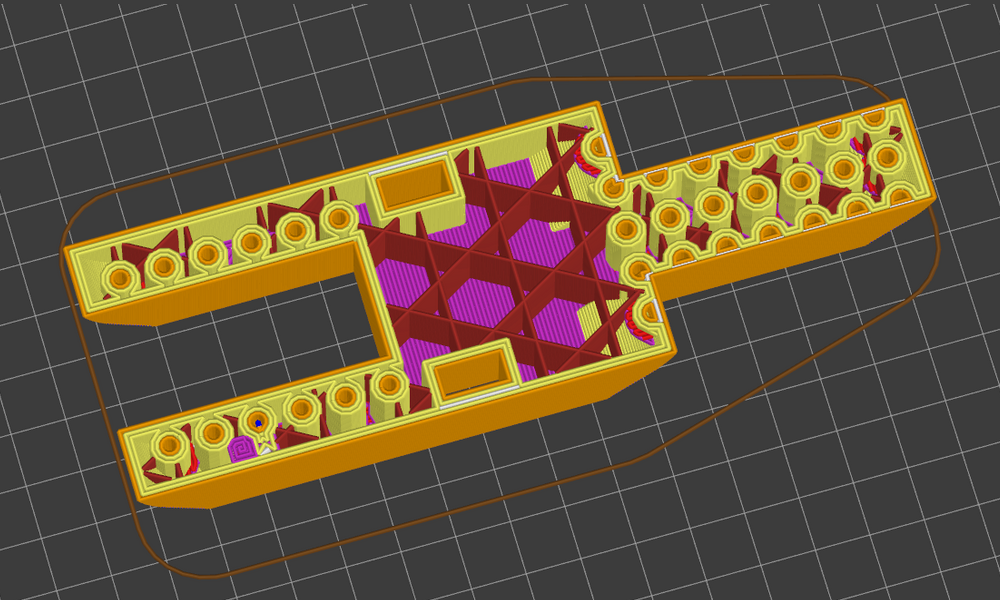
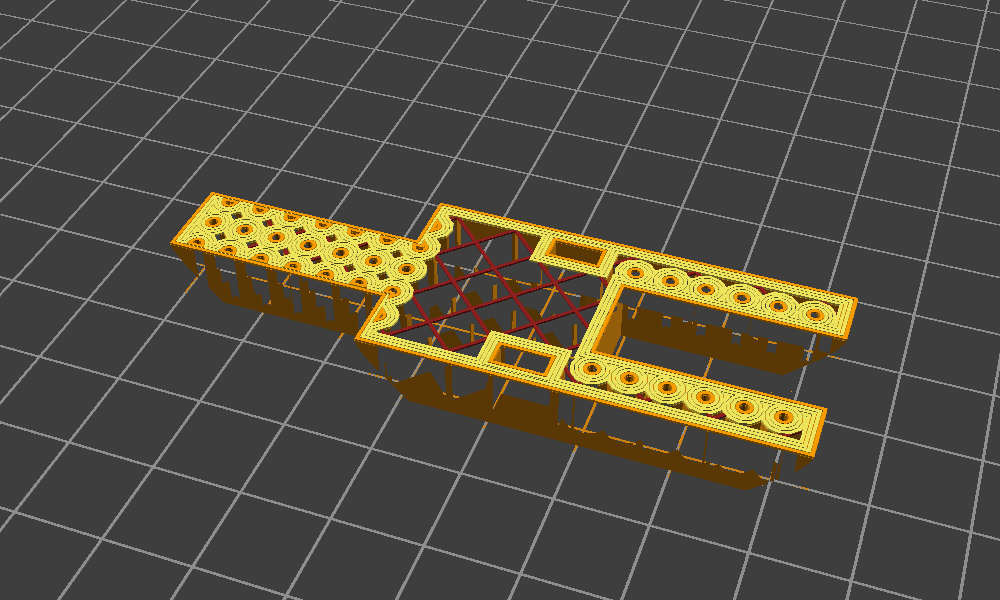
Use matching model renders for the skill README images
Part render plus a simulated slicer layer without and with strengthening
holes, all from one camera so they line up exactly.

diff --git a/strengthening-prints-with-internal-holes/README.md b/strengthening-prints-with-internal-holes/README.md
@@ -17,10 +17,11 @@ holes never touch the outside, so the part looks and fits exactly the same.
 |---|---|
 | ![Slicer layer preview of the link with normal infill](images/before.png) | ![The same link with strengthening holes: rows of solid perimeter posts in the joints](images/after.png) |
 
-The same arm link sliced with the same profile. Without holes (left), the fork and tongue
-are thin walls round sparse infill. With holes (right), the joint ends fill with tight
-perimeter rings that fuse into solid posts. The middle of the link, which doesn't need it,
-keeps its normal infill.
+One layer of the same arm link, without holes (left) and with them (right). These are
+rendered from the model with 4 perimeters and sparse infill, matching what the slicer
+showed. Without holes, the fork and tongue are thin walls round sparse infill. With holes,
+the joint ends fill with perimeter rings that fuse into solid posts. The middle of the link,
+which doesn't need it, keeps its normal infill.
 
 ## Where this came from
 

diff --git a/HISTORY.md b/HISTORY.md
@@ -9,3 +9,5 @@ Plain-language timeline of what was done and when.
   accident) and the case for it being a slicer feature, to the skill's README.
 - **2026-11-21** - Added the part render and before/after slicer previews to the internal-holes
   skill's README, cropped and scaled to match, with metadata stripped.
+- **2026-11-21** - Swapped the README screenshots for matching renders made from the model with
+  one camera (the part, and a simulated layer without and with holes).
